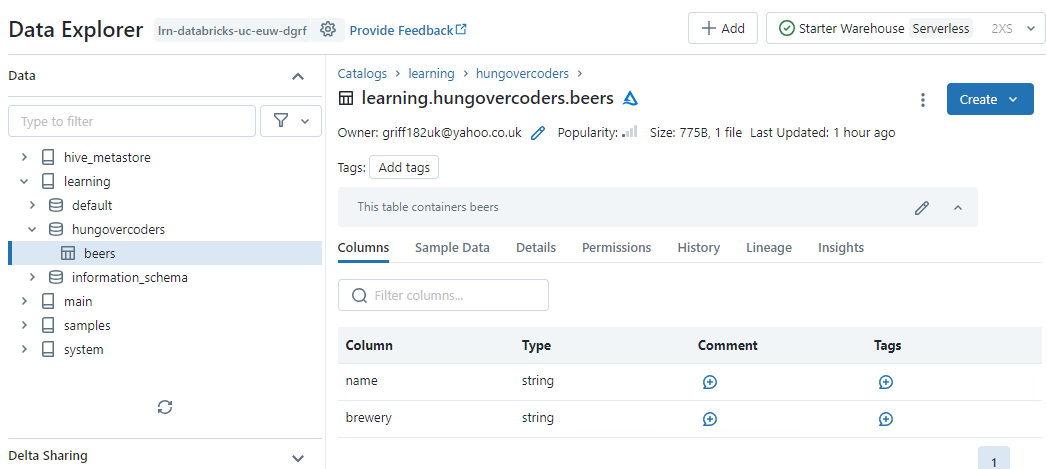
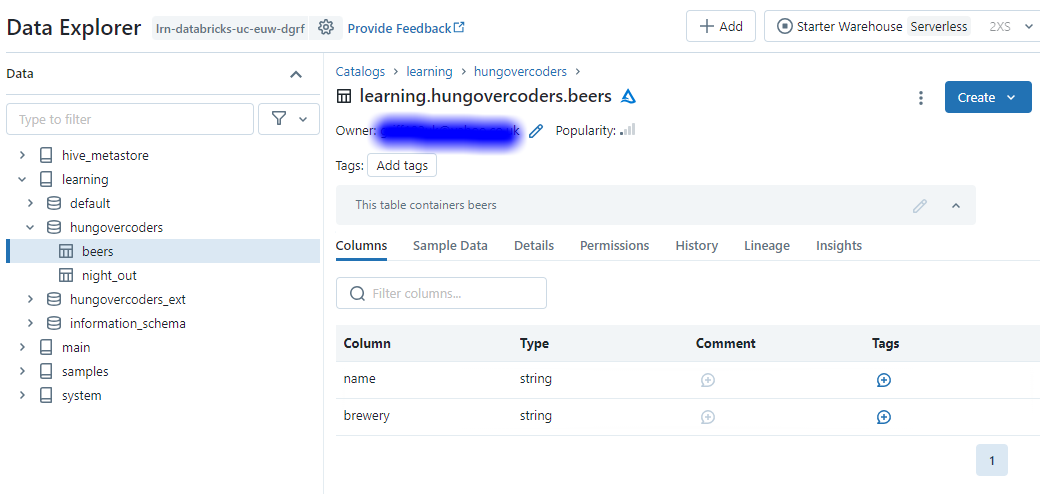
fixing some bits and adding more drawings

diff --git a/docs/_posts/2023-08-23-pass-databricks-analyst/2023-08-23-pass-databricks-analyst.md b/docs/_posts/2023-08-23-pass-databricks-analyst/2023-08-23-pass-databricks-analyst.md
@@ -8,7 +8,7 @@ image:
 tags: databricks certification
 ---
 
-It was my birthday over the weekend and whilst my body was completely destroyed by whiskey and vermouth... my mind craved sustenance and my soul penance. Therefore I looked at the preparation guidelines for the [databricks analyst associate certification](https://www.databricks.com/learn/certification/data-analyst-associate) and thought "we got this!"*. Within 48 hours my mind was full to the brim, my soul ready to redeem some of the reprehensible activities of the weekend by passing the exam and then sharing this approach with you. Here goes...
+It was my birthday over the weekend and whilst my body was completely destroyed by whiskey and vermouth... my mind craved sustenance and my soul penance. Therefore I looked at the preparation guidelines for the [databricks analyst associate certification](https://www.databricks.com/learn/certification/data-analyst-associate) and thought "we got this!". Within 48 hours my mind was full to the brim, my soul ready to redeem some of the reprehensible activities of the weekend by passing the exam and then sharing this approach with you. Here goes...
 
 - [Pre-Requisites](#pre-requisites)
 - [Useful Links](#useful-links)
@@ -43,6 +43,7 @@ It was my birthday over the weekend and whilst my body was completely destroyed 
 - [Parameters](#parameters)
 - [Dashboard](#dashboard)
 - [Alerts](#alerts)
+- [Book the Exam](#book-the-exam)
 
 ## Pre-Requisites
 
@@ -50,7 +51,7 @@ It was my birthday over the weekend and whilst my body was completely destroyed 
 
 ## Useful Links
 
-- [Databricks Academy](https://customer-academy.databricks.com/learn/signin) - Sign up to this learning resource which is absolutely free. I actually did the lakehouse fundamentals course first (about 2 hours with speed ramped up) and then do the data analyst learning plan. It says 7 hours but can do it in much less.
+- [Databricks Academy](https://customer-academy.databricks.com/learn/signin) - Sign up to this learning resource which is absolutely free. I actually did the lakehouse fundamentals course first (about 2 hours with speed ramped up) and then do the **data analyst learning plan**. It says 7 hours but you can do it in much less.
 - [Kryterion Certification Login](https://www.webassessor.com/wa.do?page=login) - This is where you can book your exam. I booked this 90 minutes before deciding to do this particular exam as I was pretty confident immediately after doing the course above and what I had read about it.
 - [Udemy Practice Questions](https://www.udemy.com/course/databricks-certified-data-analyst-practice-test/). There is no practice exam for the databricks data analyst associate so I thought I would try this Udemy version. I'll be honest it gave me confidence but a lot of the questions I did not trust or were worded weirdly, so I think I could have done without and kept the ten quid. I believe the below and the databricks academy course should be enough to steer you through.
 
@@ -74,7 +75,7 @@ There are a couple of analytic definitions you need to be aware of which are cov
 ## Provision Workspace and Unity Catalog
 
 The following section is not needed for the exam but I have put in case you need a workspace to practice your analytics in if you do not have one available. It takes about 15 minutes and is not a bad exercise to understand the workings of it all anyway. 
-The process here is manual but there are ways of automating this using tools such as terraform. This is all out of scope for the exam so just to get what you need for an environment to work within, the following should do. If you already have a workspace and catalog setup skip to [import data](#import-data).
+The process here is manual but there are ways of automating this using tools such as terraform. This is all out of scope for the exam so just to get what you need for an environment to work within, the following should do. If you already have a workspace and catalog setup skip to [Quick SQL Tour and Warehouse Setup](#quick-sql-tour-and-warehouse-setup).
 
 ### Create Workspace
 
@@ -98,13 +99,9 @@ You'll need to create a storage account to back your unity catalog storage creat
 3. Set the resource group to be the same one you created your workspace in.
 4. Set the storage account name to be something like lrncatalogsaeuwdgrf, changing the last four characters to be something unique for your resource.
 5. Set the region to be the same as your databricks workspace and the same as the shortcode you placed for the storage - in this case I used West Europe (euw).
-
 ![Create Storage]({{ site.baseurl }}/assets/2023-08-23-pass-databricks-analyst/create-storage.png)
-
 6. On the advanced tab ensure that "Enable Hierarchical Namespace" is ticked. This ensures a data lake storage account is created.
-
 ![Create Storage HNS]({{ site.baseurl }}/assets/2023-08-23-pass-databricks-analyst/create-storage-hns.png)
-
 7. Leave everything else the same and select review then create.
 
 ### Create Containers
@@ -125,17 +122,12 @@ The external connector is how your databricks workspace will authenticate agains
 4. Name it something like lrn-databricks-dbexc-euw-dgrf but change the last four characters to make it unique to your resource.
 5. Choose the same region that you created your your other resources, for me this was West Europe.
 6. Click review and create.
-
 ![Create Databricks Connector]({{ site.baseurl }}/assets/2023-08-23-pass-databricks-analyst/create-databricks-connector.png)
-
 7. Navigate to your storage account, go to Access Control and select + Add.
-
 ![Storage Add Permissions]({{ site.baseurl }}/assets/2023-08-23-pass-databricks-analyst/storage-add-permissions.png)
-
 8. For the role choose storage Blob Data Contributor.
 9. For members choose Managed Identity, select members and then pick the databricks access connector we have created.
 10. Select review and assign.
-
 ![Storage Assign Blob Contributor]({{ site.baseurl }}/assets/2023-08-23-pass-databricks-analyst/storage-assign-blob-contributor.png)
 
 ### Create Unity Catalog
@@ -143,21 +135,18 @@ The external connector is how your databricks workspace will authenticate agains
 1. Launch your new databricks workspace.
 2. In the top right click your user name and navigate to "Manage Account".
 
-![Manage Account]({{ site.baseurl }}/assets/2023-08-23-pass-databricks-analyst/manage-account.png)
+    ![Manage Account]({{ site.baseurl }}/assets/2023-08-23-pass-databricks-analyst/manage-account.png)
 
-3. Choose data and then select "create metastore".
+1. Choose data and then select "create metastore".
+![Create Metastore 01]({{ site.baseurl }}/assets/2023-08-23-pass-databricks-analyst/create-metastore-01.png)
+1. Name the metastore lrn-databricks-uc-euw-dgrf, remembering to change the last four characters to something unique to you.
+1. Select the same region you created your other resources, in my case it was West Europe again.
+1. Set the ADLS Gen 2 Path to be your storage account path which should be something like this: abfss://default@lrncatalogsaeuwdgrf.dfs.core.windows.net/
+1. Set the access connector id to be the external connector resource id you created which will be something like this: /subscriptions/xxxxxx-xxxxxx-xxxxxx-xxxxxx-xxxxxx/resourceGroups/lrn-databricks-rg/providers/Microsoft.Databricks/accessConnectors/lrn-databricks-dbexc-euw-dgrf.
 
-![Create Meastore 01]({{ site.baseurl }}/assets/2023-08-23-pass-databricks-analyst/create-metastore-01.png)
+    ![Create Metastore 02]({{ site.baseurl }}/assets/2023-08-23-pass-databricks-analyst/create-metastore-02.png)
 
-4. Name the metastore lrn-databricks-uc-euw-dgrf, remebering to change the last four characters to something unique to you.
-5. Select the same region you created your other resources, in my case it was West Europe again.
-6. Set the ADLS Gen 2 Path to be your storage account path which should be something like this: abfss://default@lrncatalogsaeuwdgrf.dfs.core.windows.net/
-7. Set the access connector id to be the external connector resource id you created which will be something like this: /subscriptions/xxxxxx-xxxxxx-xxxxxx-xxxxxx-xxxxxx/resourceGroups/lrn-databricks-rg/providers/Microsoft.Databricks/accessConnectors/lrn-databricks-dbexc-euw-dgrf.
-
-![Create Metastore 02]({{ site.baseurl }}/assets/2023-08-23-pass-databricks-analyst/create-metastore-02.png)
-
-8. Assign the metastore to your new workspace.
-
+1. Assign the metastore to your new workspace.
 ![Assign Workspace]({{ site.baseurl }}/assets/2023-08-23-pass-databricks-analyst/assign-workspace.png)
 
 ### Create External Location
@@ -175,6 +164,16 @@ External locations are handy if we want to distribute our storage across multipl
 ### Unity Catalog Overview
 
 Before we carry on, it's quickly worth noting the unity catalog hierarchy and how it maps to the three part naming conventions we'll use in our data objects.
+
+![Unity Catalog]({{ site.baseurl }}/assets/2023-08-23-pass-databricks-analyst/unity.drawio.png)
+
+The metastore exists outside the workspaces which allows for multiple workspaces to access the same unity catalog. This means all the objects can be shared between multiple workspaces, even though for this exercise we are only assigning one, we could assign more.
+
+Based on the hierarchy of unity catalog the three part naming components of data objects in are:
+
+- **catalog.schema.objectname**
+
+Where object name could be a table or a view.
 
 ## Quick SQL Tour and Warehouse Setup
 
@@ -286,7 +285,7 @@ DESCRIBE HISTORY learning.hungovercoders.beers;
 
 ![Describe History]({{ site.baseurl }}/assets/2023-08-23-pass-databricks-analyst/describe-history.png)
 
-Lets accidentally insert a new duplicate row then look at the history again.
+Lets accidentally insert a new duplicate row then look at the history again. We wil now see a new WRITE version in the history based on the new row we inserted in a transaction.
 
 ```sql
 INSERT INTO learning.hungovercoders.beers
@@ -317,7 +316,7 @@ A **managed table** couples the pointer in unity catalog and the data so that wh
 
 ## Import Data
 
-First we need to download some sample data. Download this [file]![New Data]({{ site.baseurl }}/assets/2023-08-23-pass-databricks-analyst/data.csv) to your local machine which is a simple csv of locations and what was drank.
+First we need to download some sample data. Download this [file]({{ site.baseurl }}/assets/2023-08-23-pass-databricks-analyst/data.csv) to your local machine which is a simple csv of locations and what was drank.
 
 To import data easily into databricks (up to 1GB in size), select + New on the left hand side of the workspace and choose "File Upload".
 
@@ -647,13 +646,15 @@ Enter this SQL in your new query and execute. This will add the last place of th
 WITH CTE AS (
 SELECT 'fuel' AS place,
 'unknown' AS drink,
-'10' AS quantity
+10 AS quantity
 )
 
 MERGE INTO learning.hungovercoders.night_out AS dest
 USING CTE AS src ON
 src.place = dest.place
+WHEN MATCHED THEN UPDATE SET *
 WHEN NOT MATCHED THEN INSERT *;
+
 
 SELECT * FROM learning.hungovercoders.night_out
 ```
@@ -749,7 +750,9 @@ First lets create a query we can use in a dropdown list that can feed the parame
 SELECT DISTINCT Place FROM learning.hungovercoders.night_out;
 ```
 
-In our previous query lets add a place parameter to it. Replace your visualisations query with the following, noting the parameter for place that now exists in the where clause. We are using IN as its going to be a multi select parameter. The "place IS NULL" part of the where clause is to ensure we always return the total as well.
+![Get Place]({{ site.baseurl }}/assets/2023-08-23-pass-databricks-analyst/get-place.png)
+
+In our previous "Visualisations" query lets add a place parameter to it. Replace your visualisations query with the following, noting the parameter for place that now exists in the where clause. We are using IN as its going to be a multi select parameter. The "place IS NULL" part of the where clause is to ensure we always return the total as well.
 
 ```sql
 WITH CTE_dt AS (
@@ -772,7 +775,7 @@ SELECT
 dt, place, drink, quantity + floor(rand()*2) + -2 AS quantity
 FROM learning.hungovercoders.night_out
 CROSS JOIN CTE_dt
-WHERE place IS NULL OR place IN ({{ place }})
+WHERE place IS NULL OR place IN ({% raw %}{{ place }}{% endraw %})
 )
 
 SELECT dt, place, drink, SUM(quantity) AS Quantity, SUM(quantity)+1 AS Target
@@ -783,9 +786,9 @@ ORDER BY dt, place, drink;
 
 You will see at the bottom of the query as soon as you enter the parameters that boxes will appear to represent them.
 
-- Click the little settings cog
-- Set the title as Place
-- Set the type to be "Query Based Dropdown List"
+- Click the little settings cog.
+- Set the title as Place.
+- Set the type to be "Query Based Dropdown List".
 - Set the Query to be "Get Place".
 - Tick the allow multiple values box.
 
@@ -848,7 +851,7 @@ Navigate to alerts on the left hand side of the workspace and select create aler
 - Set the Operator to be More Than (>).
 - Set the Threshold Value to be 5.
 - Set the send notification to be "Each time alert is evaluated" so that we ensure we can trigger it every time we refresh manually.
-- Leave the rest of the defaults but then use a custom template and in the Subject add "{{ ALERT_NAME }} Fired" and in the Body add "{{ QUERY_RESULT_VALUE }} MORE THAN {{ ALERT_THRESHOLD }}" which will add dynamic values from the alert. Tick preview to see the outcome of this.
+- Leave the rest of the defaults but then use a custom template and in the Subject add "{% raw %}{{ ALERT_NAME }}{% endraw %} Fired" and in the Body add "{% raw %}{{ QUERY_RESULT_VALUE }}{% endraw %} MORE THAN {% raw %}{{ ALERT_THRESHOLD }}{% endraw %}" which will add dynamic values from the alert. Tick preview to see the outcome of this.
 - Leave refresh as never as we will run this manually for now. We can schedule to have it run more often but this would incur costs and as we are just learning we don't want to do this.
 - Save the alert.
 
@@ -858,3 +861,6 @@ Refresh the alert and you should see its status change to triggered. You'll also
 
 ![Alert Triggered]({{ site.baseurl }}/assets/2023-08-23-pass-databricks-analyst/alert-triggered.png)
 
+## Book the Exam
+
+Now that you have queried your night out data its time to head over to [Kryterion Certification Login](https://www.webassessor.com/wa.do?page=login) and book that exam. Hope you are soon creating your own night out data in celebration of your exam passing success!

diff --git a/README.md b/README.md
@@ -5,3 +5,7 @@ This is the readme
 cd docs
 bundle exec jekyll serve
 ```
+
+## Escape Curly Brackets
+
+{% raw %}{{ place }}{% endraw %}
